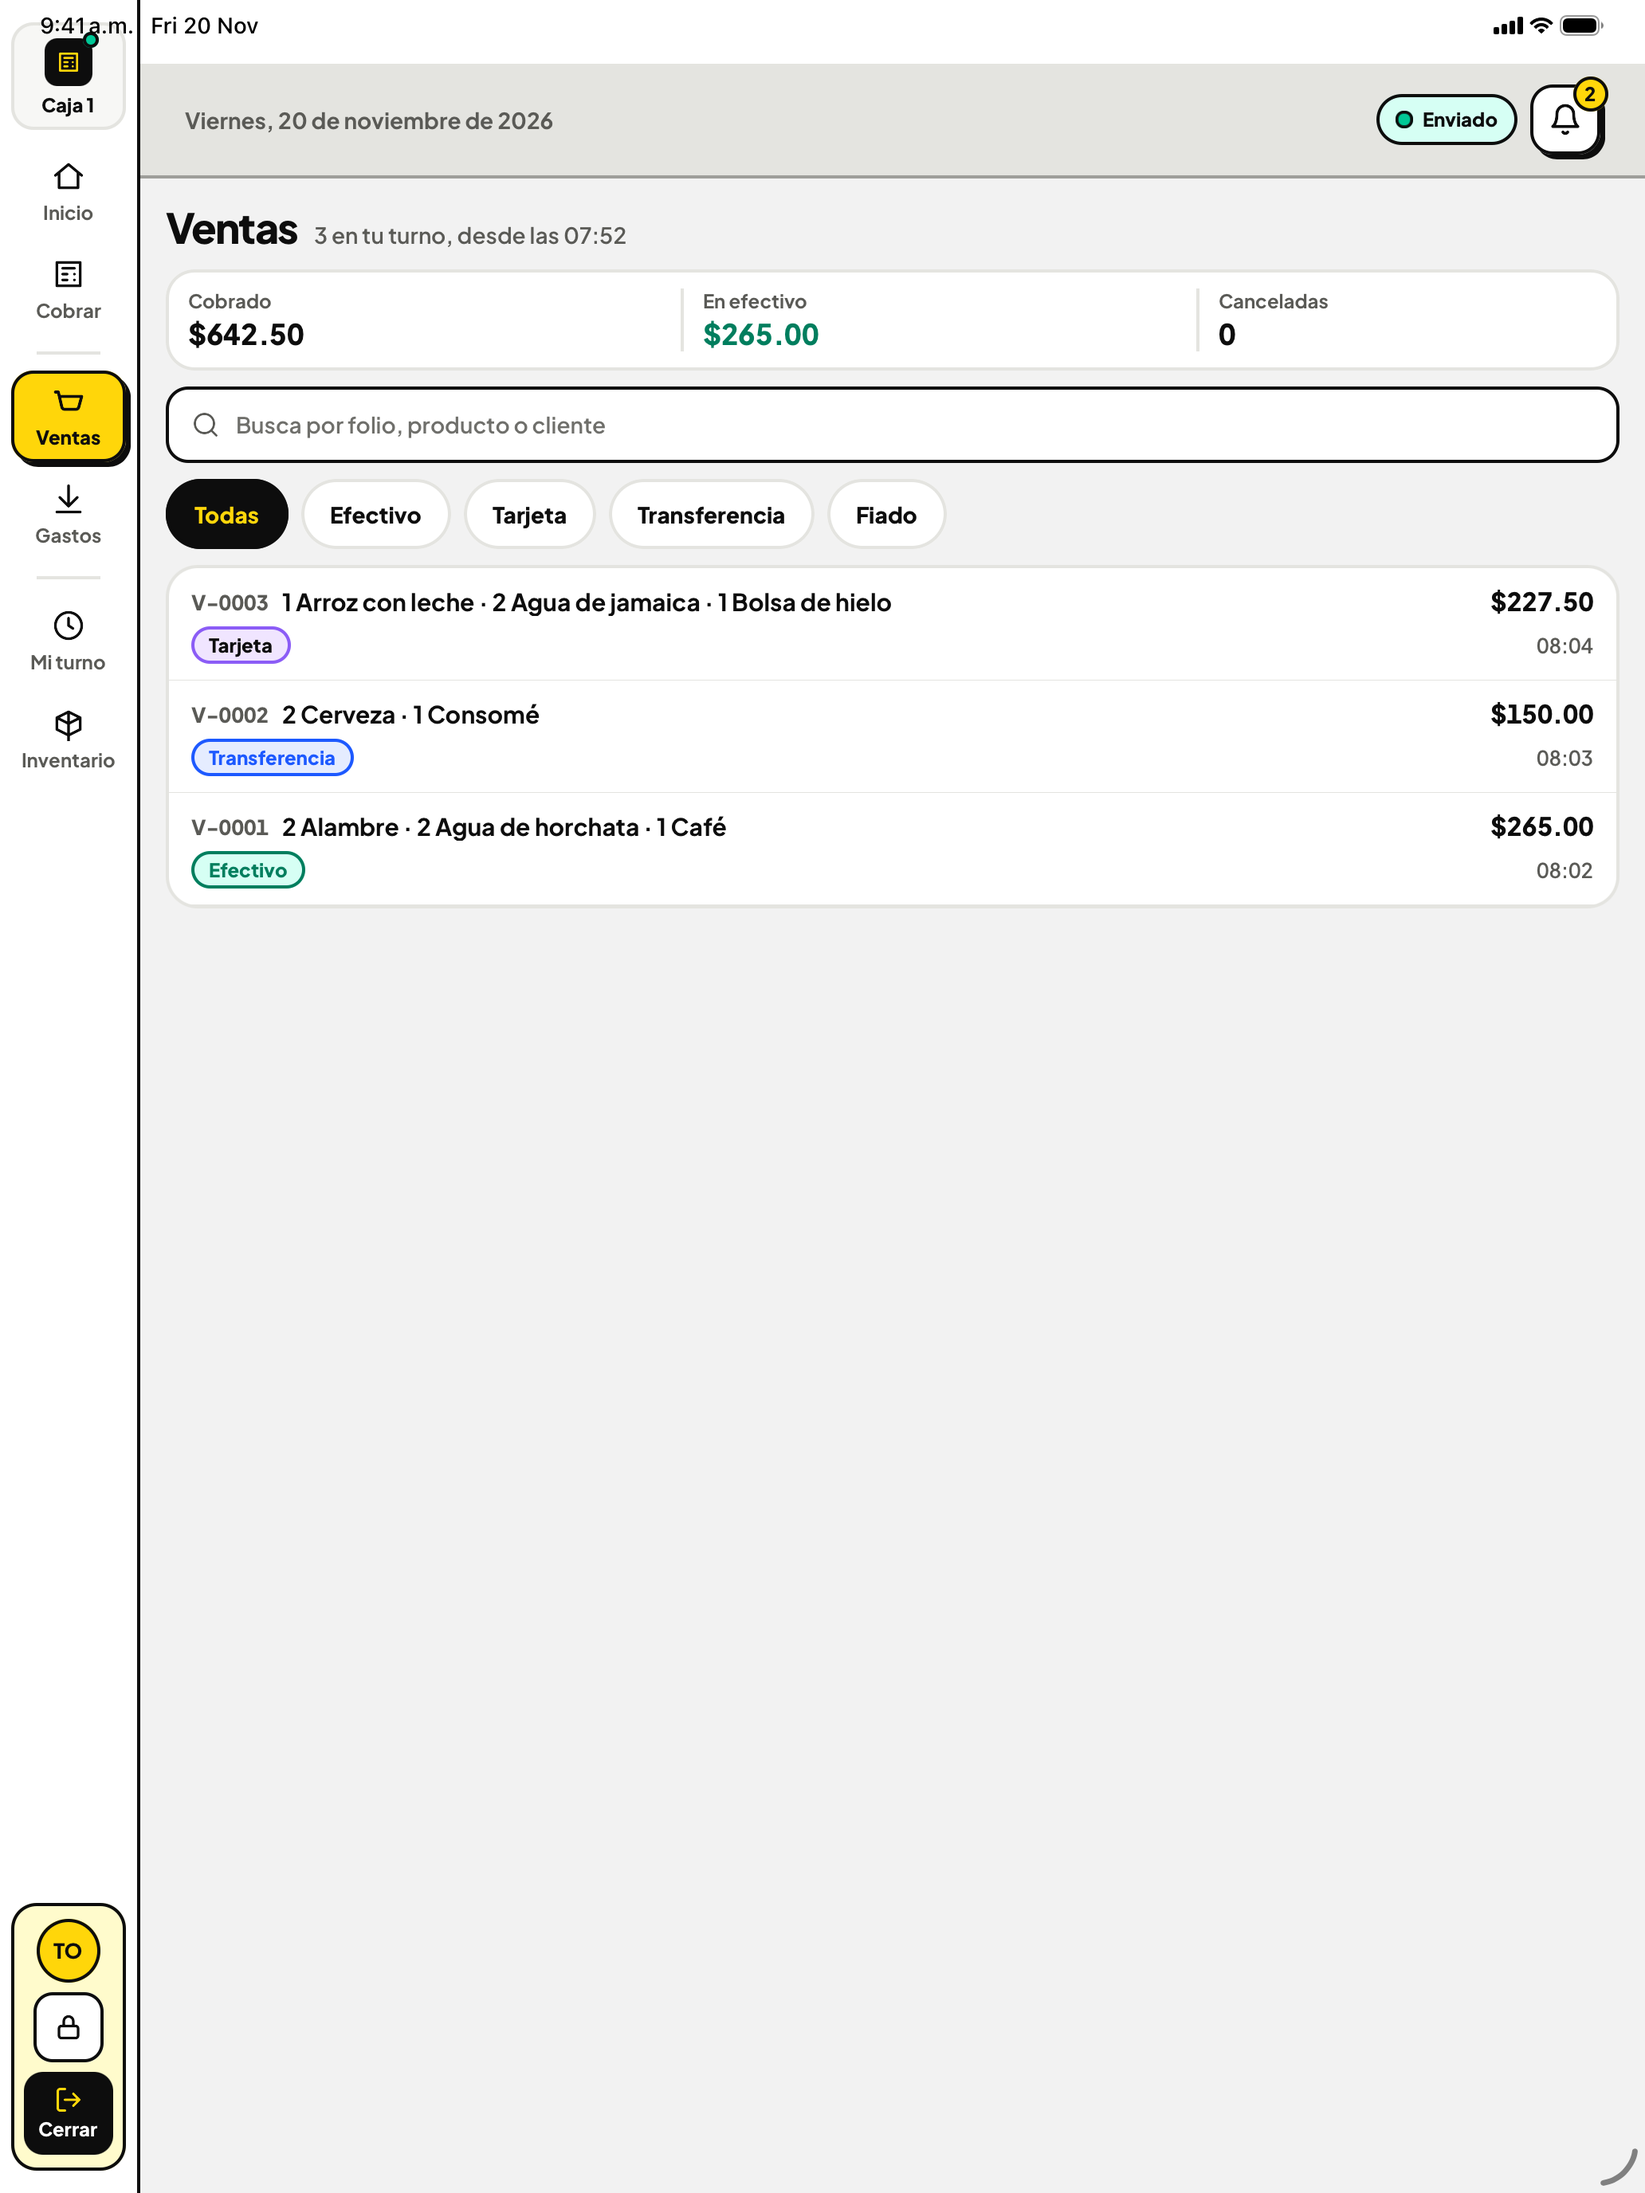
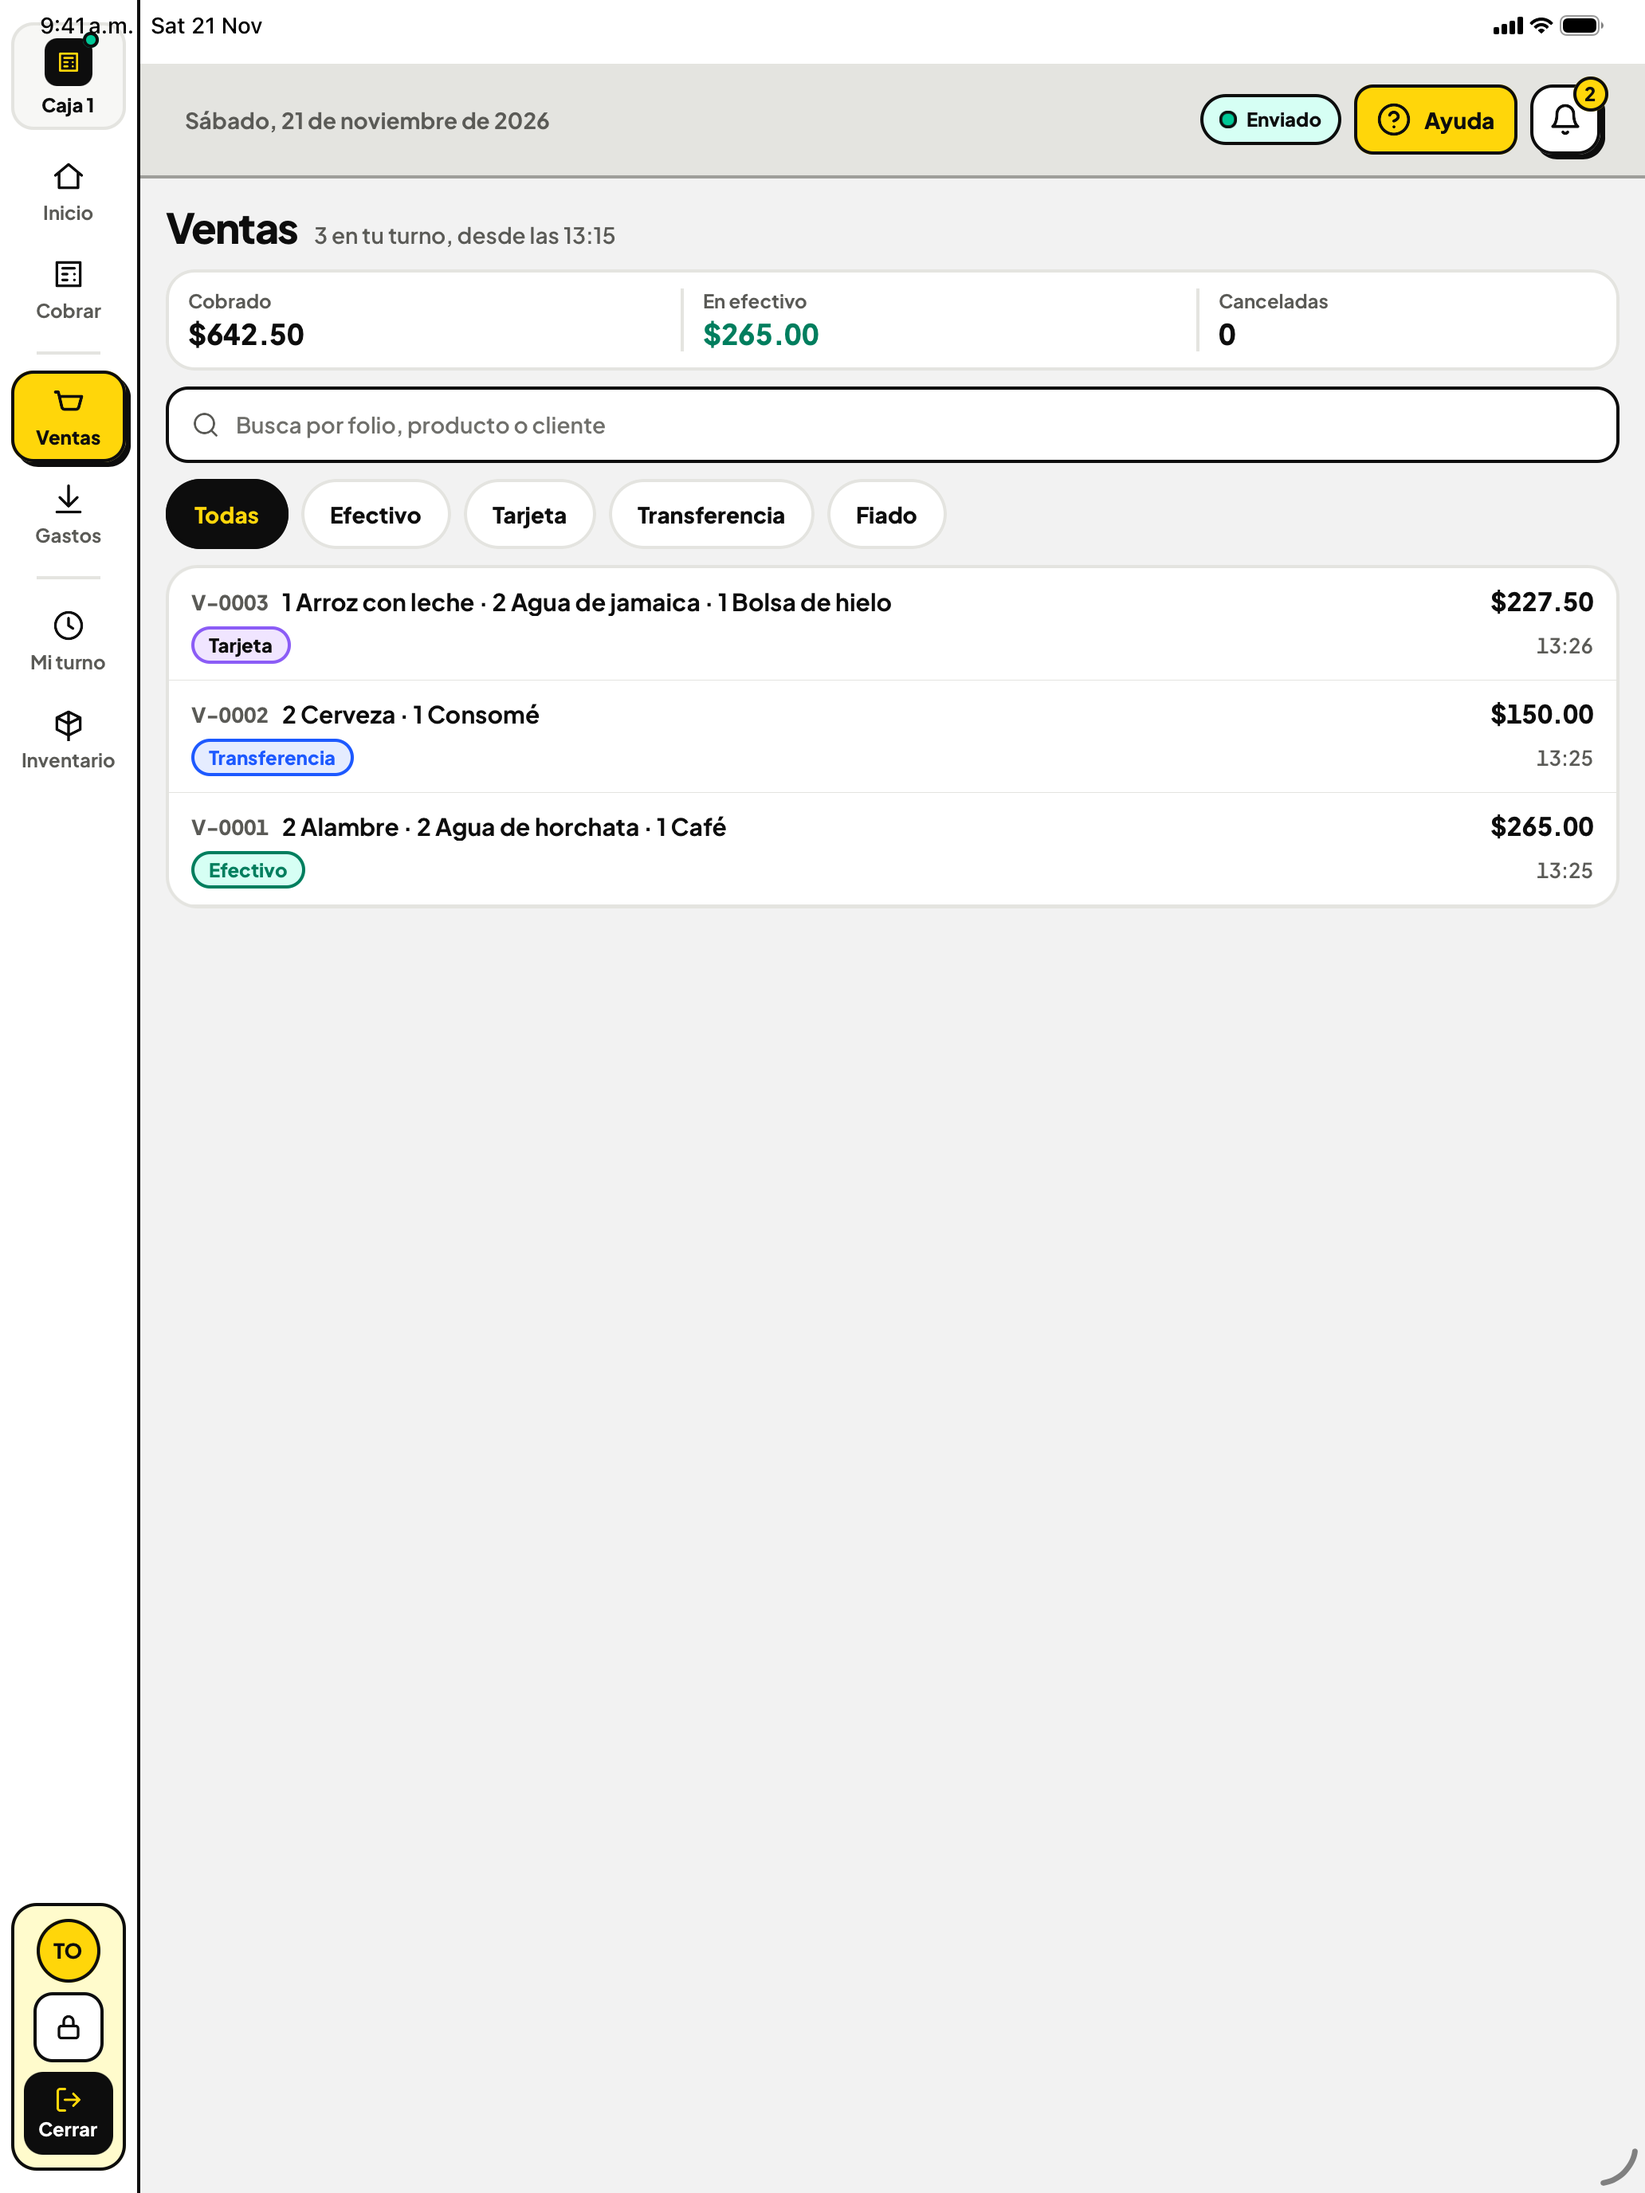
chore(store): retake the App Store set after the pre-store round
Both devices were retaken from main after #258, #259, #262, #263 and #264.
The shots now show:
- «los patrones» in every sentence.
- The help button in the header, and «¿Algo no funciona?» in Mi turno (M-23).
- «Todo enviado» on Registros por enviar.

The owner chose an afternoon take, so Inicio greets «Buenas tardes». The
manifest says so, and says to shoot before noon for «Buenos días».

Changed region(s): [[0.7132, 0.0312, 0.9302, 0.0938], [0.093, 0.0, 0.3411, 0.0625], [0.3411, 0.0938, 0.3721, 0.125]]

diff --git a/app-registration/apple/SCREENSHOTS.md b/app-registration/apple/SCREENSHOTS.md
@@ -1,9 +1,11 @@
 # Screenshots manifest — `screenshots/`
 
-Captured the morning of 2026-11-20 from the real app by one Maestro flow,
+Captured the afternoon of 2026-11-21 from the real app by one Maestro flow,
 [`store-screenshots.yaml`](../../apps/mobile/maestro/flows/internal/store-screenshots.yaml),
-against the contracts mock, on `main` with the gasto's receipt photo (PR #181)
-and the redesigned Ventas and Mi turno (PRs #195, #196, #220, #224). No
+against the contracts mock, on `main` after the phone's pre-store round: «los
+patrones» (#258), the help button in the header (M-23, #259), the sync banners
+(#263) and «¿Es tu negocio?» (#264), on top of the receipt photo (#181) and the
+redesigned Ventas and Mi turno (#195, #196, #220, #224). No
 compositing, no fixture screens: what the app shows for the demo taquería
 («Tacos La Esquina») is what the shots contain. Play's set comes from the same
 flow ([`../google-play/SCREENSHOTS.md`](../google-play/SCREENSHOTS.md)).
@@ -42,11 +44,12 @@ set.
 
 ## Known imperfections (for the next re-shoot)
 
-- **The times read just before eight** (the turno «desde las 07:33») under a
-  9:41 status bar: the greeting and the times follow the simulator's clock,
-  which is the Mac's. Take the set in the morning, so Inicio says «Buenos
-  días»; a run that crosses midnight reads two days.
-- **«Renta local» reads «Atrasado 19 días»**: the mock's recurrente is due on
+- **Inicio says «Buenas tardes»** and the turno opens «desde las 13:00»
+  under a 9:41 status bar: the greeting and the times follow the simulator's
+  clock, which is the Mac's. The owner chose an afternoon take on 2026-11-21
+  over waiting for the morning; for «Buenos días», take the set before noon.
+  A run that crosses midnight reads two days.
+- **«Renta local» reads «Atrasado 20 días»**: the mock's recurrente is due on
   the 1st and nobody registers it in the story.
 - **The iPad** draws its window-resize arc in the bottom-right corner, and the
   status bar's «9:41 a.m.» sits over the rail's «Caja 1» chip; both are iPadOS.
